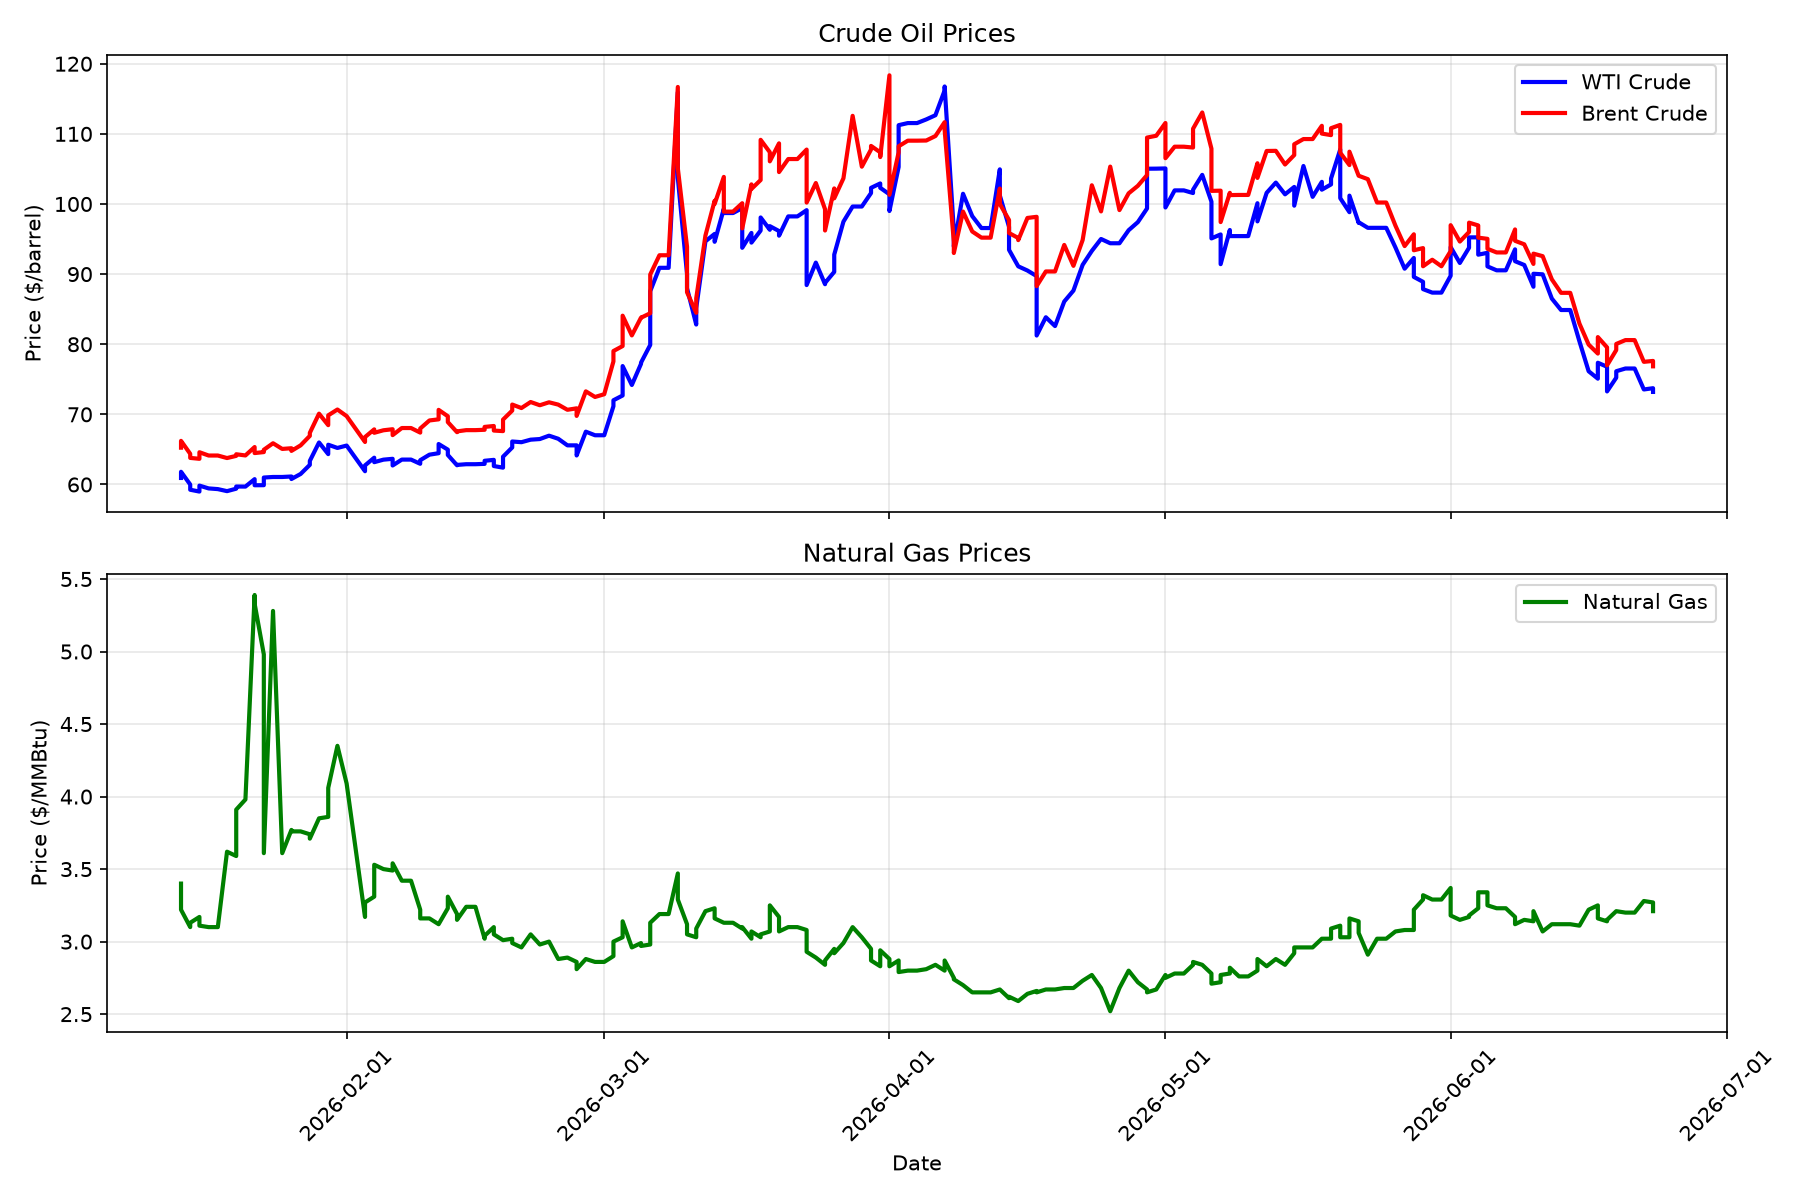
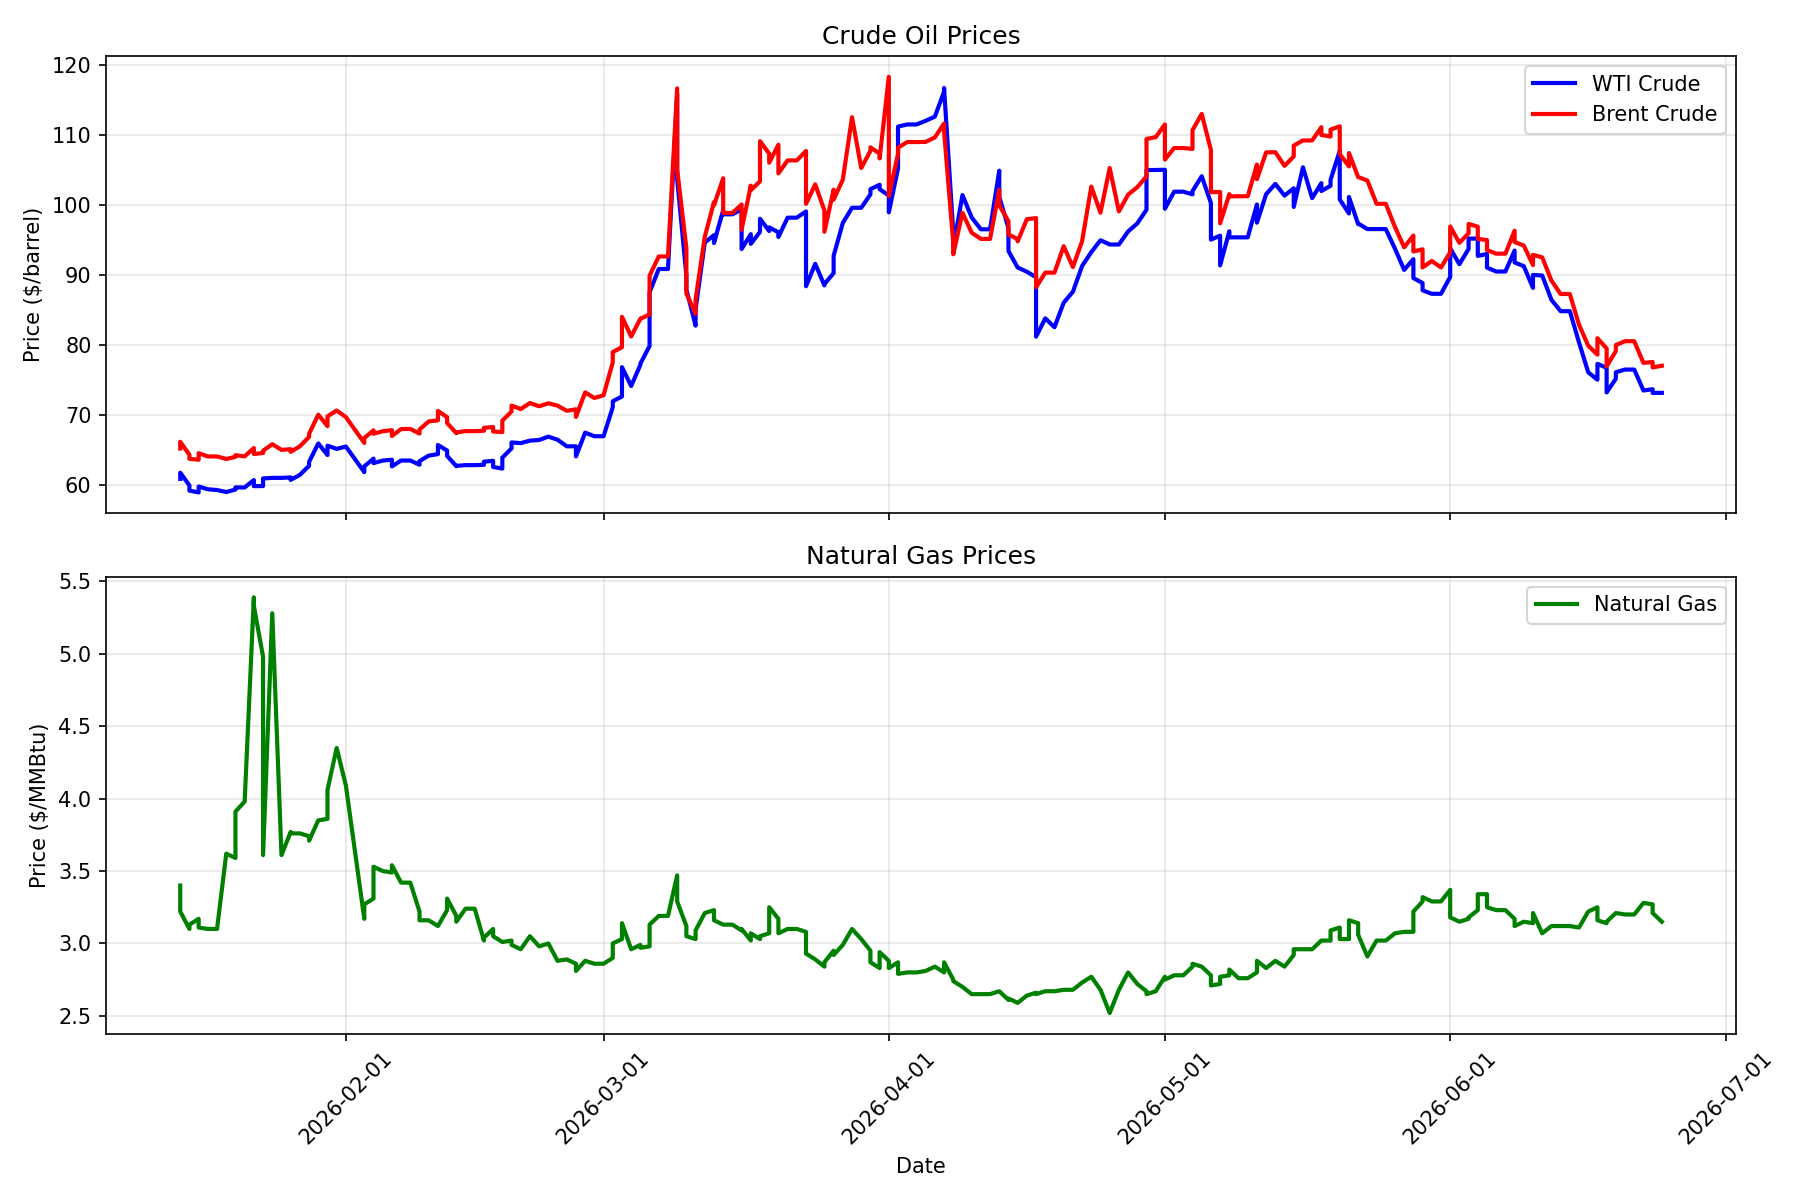
Daily price update: 2026-06-24

diff --git a/README.md b/README.md
@@ -2,29 +2,29 @@
 
 Automated daily tracking of chemical commodity prices and chemical company stocks.
 
-## Latest Prices (Updated: 2026-06-23)
+## Latest Prices (Updated: 2026-06-24)
 
 ### Energy Commodities
 
 | Commodity | Price | Change (24h) | Unit |
 |-----------|-------|--------------|------|
-| WTI Crude Oil | $73.20 | -1.62 (-2.17%) | $/barrel |
-| Brent Crude Oil | $76.85 | -1.05 (-1.35%) | $/barrel |
-| Natural Gas | $3.21 | -0.04 (-1.29%) | $/MMBtu |
-| Heating Oil | $3.07 | -0.02 (-0.74%) | $/gallon |
+| WTI Crude Oil | $73.21 | +0.00 (+0.00%) | $/barrel |
+| Brent Crude Oil | $77.08 | +0.00 (+0.00%) | $/barrel |
+| Natural Gas | $3.15 | +0.00 (+0.00%) | $/MMBtu |
+| Heating Oil | $3.15 | +0.00 (+0.00%) | $/gallon |
 
 ### Chemical Company Stocks
 
 | Company | Ticker | Price | Change (24h) |
 |---------|--------|-------|--------------|
-| Dow Inc. | DOW | $30.68 | -0.11 (-0.36%) |
-| LyondellBasell | LYB | $58.00 | -0.52 (-0.89%) |
-| DuPont | DD | $47.29 | +0.00 (+0.00%) |
-| Air Products | APD | $283.49 | +0.39 (+0.14%) |
-| Linde | LIN | $518.59 | +1.88 (+0.36%) |
-| Eastman Chemical | EMN | $70.76 | -1.20 (-1.67%) |
-| Celanese | CE | $49.25 | -0.48 (-0.97%) |
-| Huntsman | HUN | $11.55 | +0.05 (+0.39%) |
+| Dow Inc. | DOW | $30.33 | -0.46 (-1.49%) |
+| LyondellBasell | LYB | $57.60 | -0.92 (-1.57%) |
+| DuPont | DD | $140.01 | -4.56 (-3.15%) |
+| Air Products | APD | $282.45 | -0.66 (-0.23%) |
+| Linde | LIN | $512.26 | -4.45 (-0.86%) |
+| Eastman Chemical | EMN | $69.48 | -2.48 (-3.45%) |
+| Celanese | CE | $48.13 | -1.60 (-3.22%) |
+| Huntsman | HUN | $11.38 | -0.12 (-1.04%) |
 
 ## Data Sources
 

diff --git a/logs/update_log.md b/logs/update_log.md
@@ -269,3 +269,4 @@ Daily updates to the chemical engineering data repository.
 - **2026-06-22 15:37:54**: Updated 4 energy prices, 8 stocks, 0 FRED series
 - **2026-06-23 00:24:49**: Updated 4 energy prices, 8 stocks, 0 FRED series
 - **2026-06-23 14:59:41**: Updated 4 energy prices, 8 stocks, 0 FRED series
+- **2026-06-24 00:00:03**: Updated 4 energy prices, 8 stocks, 0 FRED series
